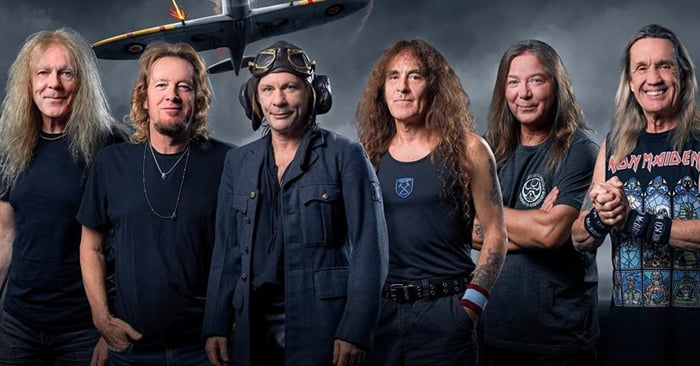
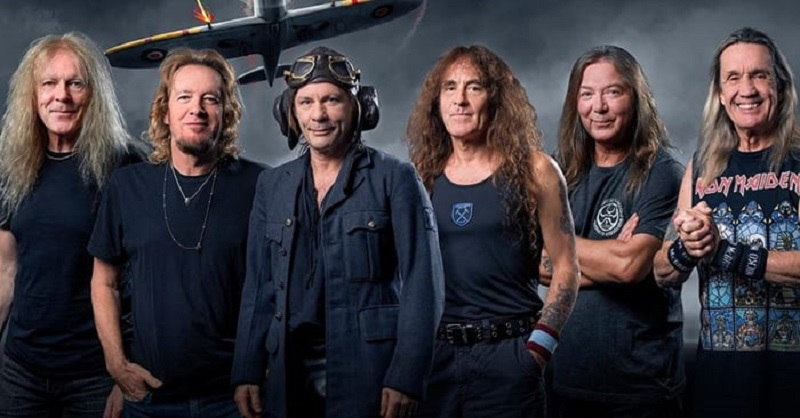
a

diff --git a/gridflex/stylegridflex.css b/gridflex/stylegridflex.css
@@ -175,3 +175,53 @@ img {
 
 }
 }
+
+/*GRID3 CSS*/
+
+.grid3{
+    display: grid;
+    grid-template-columns: repeat(2, 1fr);
+    gap: 20px;
+    margin: 0 auto;
+    max-width: 800px;
+    padding-bottom: 100px;
+
+  
+
+}
+
+.grid3-item1{
+    grid-row: 1/3;  
+   
+    
+}
+
+.grid3-item1 img {
+    width: 100%;
+    height: 100%;
+    grid-row: 1/3;
+   object-fit: cover; /* Faz com que a imagem cubra o espaço do grid */
+   
+}
+
+.grid3-item1 p{
+    background:rgba(0, 0, 0, 0.6) ;
+    padding: 10px;
+    color: white;
+    grid-column: 1;
+    grid-row: 2;
+   
+}
+
+.grid3-item p{
+    background:rgba(0, 0, 0, 0.6) ;
+    padding: 10px;
+    color: white;
+    grid-column: 1;
+    grid-row: 2;
+   
+}
+
+.grid3-item{
+    height: 100%;
+}

diff --git a/gridflex/gridflex.html b/gridflex/gridflex.html
@@ -132,6 +132,27 @@
 
 
     </section>
+
+    <!-- **************************************************************** -->
+
+    <h1>Section Grid3</h1>
+
+    <section class="grid3">
+
+        <div class="grid3-item1">
+            <img src="1.jpg">
+            <p>Iron</p>
+        </div>
+        <div class="grid3-item">
+            <img src="2.jpg">
+            <p>Iron</p>
+        </div>
+        <div class="grid3-item">
+            <img src="3.jpg">
+            <p>Iron</p>
+        </div>
+
+    </section>
 </body>
 
 </html>
